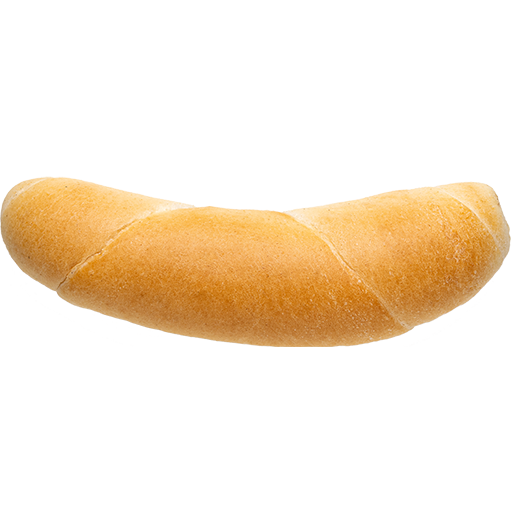
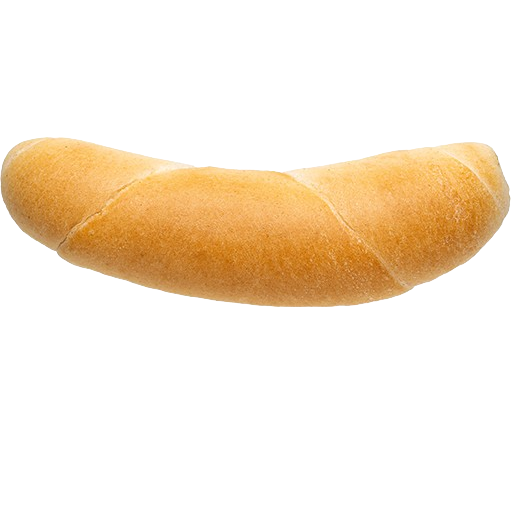
- pridal jsem delitko do nakupu (jeste neni 100% funční)

diff --git a/src/main/java/SpravcePasu.java b/src/main/java/SpravcePasu.java
@@ -17,19 +17,28 @@ public class SpravcePasu extends JPanel {
     private final int SCANNER_X = 610;
     private final int SCANNER_Y = 34;
     private final int ODSTAV_X = 900;
-
     private final int VELIKOST_POLOZKY = 80;
 
     private AnimovanyGif pasGif;
     private BazalaSimulator bazalaSimulator;
 
-    // UPRAVENÝ KONSTRUKTOR: Nyní přijímá i BazalaSimulator
+    // Proměnné pro dělítko
+    private int zbyvaVygenerovatPolozek;
+    private boolean cekaNaDelitko = false;
+    private boolean delitkoJeNaPase = false;
+
     public SpravcePasu(List<Zbozi> zbozi, AnimovanyGif pasGif, BazalaSimulator bazalaSimulator) {
         this.zboziList = zbozi;
         this.aktivniPolozky = new ArrayList<>();
         this.pasGif = pasGif;
         this.bazalaSimulator = bazalaSimulator;
+
+        // POZOR: random se musí vytvořit PŘEDTÍM, než ho použijeme na další řádku!
         this.random = new Random();
+
+        // Pro testování sníženo na 3 až 5 položek. Pak si to přepiš na: random.nextInt(25) + 1;
+        this.zbyvaVygenerovatPolozek = random.nextInt(3) + 3;
+        System.out.println("🛒 Nový zákazník! Bude kupovat " + this.zbyvaVygenerovatPolozek + " položek.");
 
         setOpaque(false);
         setLayout(null);
@@ -37,7 +46,7 @@ public class SpravcePasu extends JPanel {
         pohybTimer = new Timer(16, e -> pohniSPolozkami());
         pohybTimer.start();
 
-        spawnTimer = new Timer(2000, e -> zkusPridatZbozi()); // Změněno z 20ms zpět na 2000ms (2 vteřiny)
+        spawnTimer = new Timer(2000, e -> zkusPridatZbozi());
         spawnTimer.start();
     }
 
@@ -49,7 +58,6 @@ public class SpravcePasu extends JPanel {
     private void zkusPridatZbozi() {
         boolean jeMisto = true;
         for (PolozkaNaPase p : aktivniPolozky) {
-            // Kontrolujeme pouze ty položky, které jsou ještě fyzicky na páse
             if (p.stav == PolozkaNaPase.Stav.NA_PASE && p.getX() < p.getWidth() + 20) {
                 jeMisto = false;
                 break;
@@ -57,28 +65,32 @@ public class SpravcePasu extends JPanel {
         }
 
         if (jeMisto) {
+            // LOGIKA PRO DĚLÍTKO
+            if (cekaNaDelitko) {
+                if (!delitkoJeNaPase) {
+                    vygenerujDelitko();
+                }
+                return;
+            }
+
+            // BĚŽNÉ GENEROVÁNÍ ZBOŽÍ
             Zbozi vybrane = vyberNahodneZbozi();
             int pocetKusu = random.nextInt(vybrane.maxPocet) + 1;
             int startY = (getHeight() / 2) - (VELIKOST_POLOZKY / 2);
             if(getHeight() == 0) startY = 40;
 
-            PolozkaNaPase novaPolozka = new PolozkaNaPase(vybrane, -VELIKOST_POLOZKY, startY, VELIKOST_POLOZKY, pocetKusu);
+            PolozkaNaPase novaPolozka = new PolozkaNaPase(vybrane, -VELIKOST_POLOZKY, startY, VELIKOST_POLOZKY, VELIKOST_POLOZKY, pocetKusu);
 
-            // NOVÉ: Kliknutí na zboží určí, kam poletí
             novaPolozka.addMouseListener(new java.awt.event.MouseAdapter() {
                 @Override
                 public void mouseClicked(java.awt.event.MouseEvent e) {
                     if (novaPolozka.stav == PolozkaNaPase.Stav.NA_PASE) {
-
                         if (novaPolozka.zboziData.typ == 0) {
-                            // TYP 0: Letí rovnou do odstavu a automaticky se propíše na účtenku
                             if (bazalaSimulator != null) {
                                 bazalaSimulator.pridejZboziNaUctenku(novaPolozka.zboziData, novaPolozka.pocetKusu);
                             }
                             novaPolozka.nastavCil(ODSTAV_X, novaPolozka.getY(), PolozkaNaPase.Stav.JEDE_DO_ODSTAVU);
-
                         } else if (novaPolozka.zboziData.typ >= 1 && novaPolozka.zboziData.typ <= 4) {
-                            // TYP 1-4: Zkontrolujeme, zda je scanner volný (max 1 položka)
                             boolean scannerVolny = true;
                             for (PolozkaNaPase p : aktivniPolozky) {
                                 if (p.stav == PolozkaNaPase.Stav.JEDE_NA_SCANNER || p.stav == PolozkaNaPase.Stav.CEKA_NA_SCANNERU) {
@@ -98,7 +110,63 @@ public class SpravcePasu extends JPanel {
             aktivniPolozky.add(novaPolozka);
             add(novaPolozka);
             repaint();
+
+            // ODEČTEME POLOŽKU A ZKONTROLUJEME KONEC NÁKUPU
+            zbyvaVygenerovatPolozek--;
+            System.out.println("Vygenerováno. Zákazníkovi zbývá na pás položit: " + zbyvaVygenerovatPolozek + " věcí.");
+
+            if (zbyvaVygenerovatPolozek <= 0) {
+                cekaNaDelitko = true;
+            }
         }
+    }
+
+    private void vygenerujDelitko() {
+        System.out.println("⚠ Generuji dělítko nákupu!");
+        Zbozi delitkoData = new Zbozi("delitko_nakupu", -1, -1, 0, 0, 0, 1, 0, "delitko_nakupu");
+
+        // ROZMĚRY DĚLÍTKA (Můžeš si s čísly libovolně hrát!)
+        int vyskaDelitka = VELIKOST_POLOZKY * 2; // 2x větší na výšku
+        int sirkaDelitka = VELIKOST_POLOZKY / 2; // Užší šířka, ať to vypadá jako tyčka
+
+        // Výpočet startY musíme udělat podle nové výšky dělítka, ať nevyjede z pásu!
+        int startY = (getHeight() / 2) - (vyskaDelitka / 2);
+        if(getHeight() == 0) startY = 40;
+
+        // Vytvoříme dělítko s novými proporcemi
+        PolozkaNaPase delitko = new PolozkaNaPase(delitkoData, -sirkaDelitka, startY, sirkaDelitka, vyskaDelitka, 1);
+
+        delitko.addMouseListener(new java.awt.event.MouseAdapter() {
+            @Override
+            public void mouseClicked(java.awt.event.MouseEvent e) {
+                if (delitko.stav == PolozkaNaPase.Stav.NA_PASE) {
+
+                    // NOVÁ PODMÍNKA: Kliknout jde, jen když je dělítko na konci pásu
+                    if (delitko.getX() >= BOD_ZASTAVENI) {
+                        delitko.nastavCil(ODSTAV_X, delitko.getY(), PolozkaNaPase.Stav.JEDE_DO_ODSTAVU);
+
+                        System.out.println("✅ Nákup ukončen (dělítko odstraněno). Začíná další zákazník.");
+                        cekaNaDelitko = false;
+                        delitkoJeNaPase = false;
+
+                        // Generování nového zákazníka
+                        zbyvaVygenerovatPolozek = random.nextInt(25) + 1;
+                        System.out.println("🛒 Nový zákazník! Bude kupovat " + zbyvaVygenerovatPolozek + " položek.");
+                    } else {
+                        // Pokud je dělítko moc daleko, nic se nestane (nebo to napíše zprávu)
+                        System.out.println("❌ Na dělítko nelze kliknout, ještě nedojelo ke scanneru!");
+                        // Pokud máš nahraný chybový zvuk, můžeš ho tu přehrát:
+                        // SpravceZvuku.prehraj("/chyba.wav");
+                    }
+
+                }
+            }
+        });
+
+        aktivniPolozky.add(delitko);
+        add(delitko);
+        repaint();
+        delitkoJeNaPase = true;
     }
 
     private void pohniSPolozkami() {
@@ -138,7 +206,6 @@ public class SpravcePasu extends JPanel {
         }
     }
 
-    // NOVÉ: Zajišťuje plynulý přelet zboží
     private void animujKTargetu(PolozkaNaPase p) {
         int dx = p.cilX - p.getX();
         int dy = p.cilY - p.getY();
@@ -147,23 +214,19 @@ public class SpravcePasu extends JPanel {
         if (Math.abs(dx) > rychlost) p.setLocation(p.getX() + (dx > 0 ? rychlost : -rychlost), p.getY());
         if (Math.abs(dy) > rychlost) p.setLocation(p.getX(), p.getY() + (dy > 0 ? rychlost : -rychlost));
 
-        // Když zboží dorazí do svého cíle
         if (Math.abs(dx) <= rychlost && Math.abs(dy) <= rychlost) {
             if (p.stav == PolozkaNaPase.Stav.JEDE_NA_SCANNER) {
-                // Dorazil na scanner -> ZASTAVÍ SE A ČEKÁ NA ZADÁNÍ Z KLÁVESNICE
                 p.stav = PolozkaNaPase.Stav.CEKA_NA_SCANNERU;
-
             } else if (p.stav == PolozkaNaPase.Stav.JEDE_DO_ODSTAVU) {
-                // Zboží je v odstavném prostoru, můžeme ho smazat
                 remove(p);
                 aktivniPolozky.remove(p);
             }
         }
     }
+
     public boolean overAOdjedZeScanneru(int idZbozi, int mnozstvi) {
         for (PolozkaNaPase p : aktivniPolozky) {
             if (p.stav == PolozkaNaPase.Stav.CEKA_NA_SCANNERU && p.zboziData.id == idZbozi && p.pocetKusu == mnozstvi) {
-                // Údaje sedí! Pošleme zboží do odstavu
                 p.nastavCil(ODSTAV_X, p.getY(), PolozkaNaPase.Stav.JEDE_DO_ODSTAVU);
                 return true;
             }

diff --git a/src/main/java/PolozkaNaPase.java b/src/main/java/PolozkaNaPase.java
@@ -9,31 +9,33 @@ public class PolozkaNaPase extends JLabel {
     Stav stav = Stav.NA_PASE;
 
     private Image img;
-    private int velikostZakladni;
+    private int sirkaZakladni;
+    private int vyskaZakladni;
 
     int cilX, cilY;
 
     // UPRAVENÝ KONSTRUKTOR: Přijímá parametr navíc (pocetKusu)
-    public PolozkaNaPase(Zbozi z, int x, int y, int velikost, int pocetKusu) {
+    public PolozkaNaPase(Zbozi z, int x, int y, int sirka, int vyska, int pocetKusu) {
         this.zboziData = z;
         this.pocetKusu = pocetKusu;
-        this.velikostZakladni = velikost;
+        this.sirkaZakladni = sirka;
+        this.vyskaZakladni = vyska;
 
-        // Nastavení offsetu (o kolik pixelů se každý další kus posune)
         int offset = 6;
-        int sirkaCelkem = velikost + ((pocetKusu - 1) * offset);
-        int vyskaCelkem = velikost + ((pocetKusu - 1) * offset);
+        int sirkaCelkem = sirka + ((pocetKusu - 1) * offset);
+        int vyskaCelkem = vyska + ((pocetKusu - 1) * offset);
+
 
         // Zvětšíme velikost komponenty tak, aby se do ní "hromádka" vešla a neosekla se
         setBounds(x, y - ((pocetKusu - 1) * offset), sirkaCelkem, vyskaCelkem);
         setCursor(new Cursor(Cursor.HAND_CURSOR));
         setToolTipText(pocetKusu + "x " + z.nazev + " (" + z.cena + " Kč / ks)");
 
-        // Místo setIcon() si obrázek jen uložíme do proměnné img
         try {
             java.net.URL imgUrl = getClass().getResource("/zboziObrazky/" + z.nazev + ".png");
             if (imgUrl != null) {
-                img = new ImageIcon(imgUrl).getImage().getScaledInstance(velikost, velikost, Image.SCALE_SMOOTH);
+                img = new ImageIcon(imgUrl).getImage().getScaledInstance(sirka, vyska, Image.SCALE_SMOOTH);
+
             }
         } catch (Exception e) {
             System.err.println("Obrázek pro " + z.nazev + " nenalezen.");
@@ -53,17 +55,16 @@ public class PolozkaNaPase extends JLabel {
         int offset = 6;
 
         if (img != null) {
-            // Vykreslujeme od prvního kusu po poslední s posunem
             for (int i = 0; i < pocetKusu; i++) {
                 int drawX = i * offset;
                 int drawY = i * offset;
                 g2.drawImage(img, drawX, drawY, null);
             }
         } else {
-            // Pokud obrázek chybí, vykreslí se textově tolik krabic, kolik je kusů
-            g2.setFont(new Font("Segoe UI Emoji", Font.PLAIN, velikostZakladni / 2));
+            // Pokud chybí obrázek, krabice se přizpůsobí menšímu z rozměrů
+            g2.setFont(new Font("Segoe UI Emoji", Font.PLAIN, Math.min(sirkaZakladni, vyskaZakladni) / 2));
             for (int i = 0; i < pocetKusu; i++) {
-                g2.drawString("📦", i * offset, (velikostZakladni / 2) + (i * offset));
+                g2.drawString("📦", i * offset, (vyskaZakladni / 2) + (i * offset));
             }
         }
     }

diff --git a/src/main/java/Menu.java b/src/main/java/Menu.java
@@ -139,8 +139,6 @@ public class Menu extends JFrame {
 
         return btn;
     }
-
-    // 4. OPRAVA: BackgroundPanel nyní používá getResource místo File
     class BackgroundPanel extends JPanel {
         private Image backgroundImage;
 
